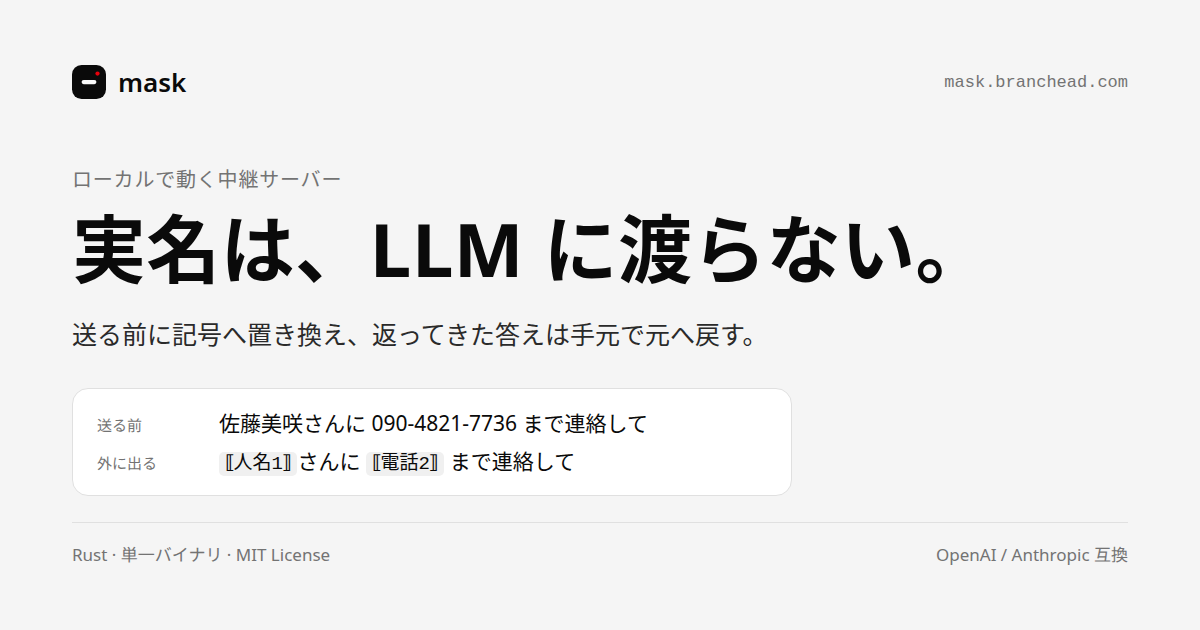
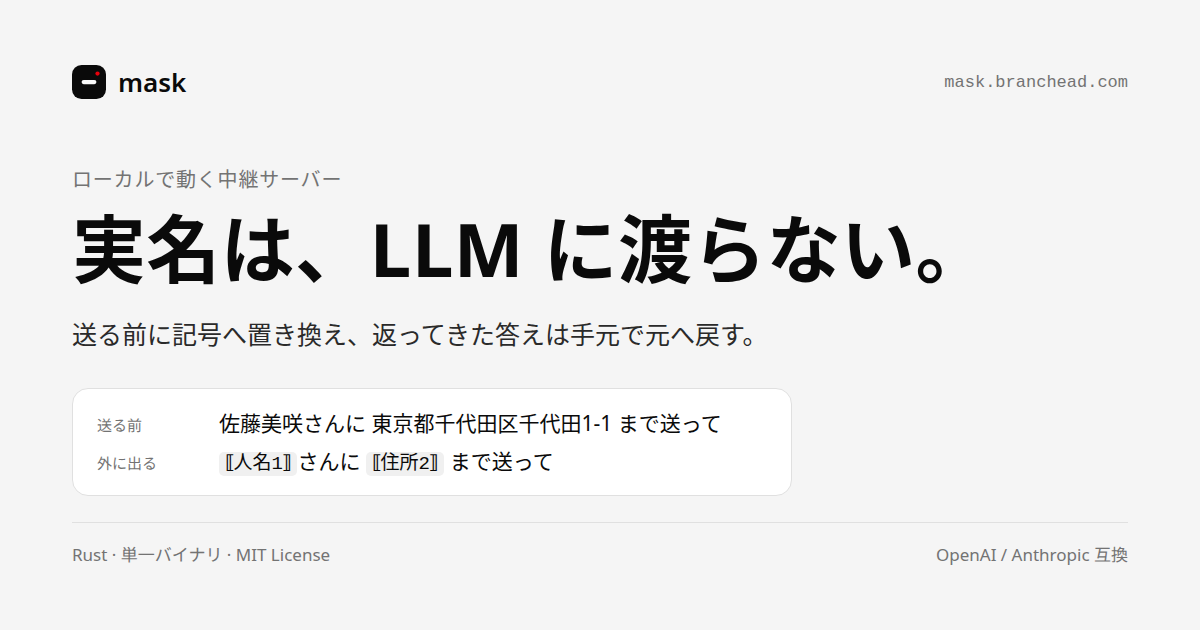
site: put a landmark address in the example, credit branchead.com
The hero flow and the OGP card used a phone-shaped example, which invites
the reader of a privacy tool to ask whose number that is. The example is now
the Imperial Palace's public location (東京都千代田区千代田1-1), labelled as
such in the figure caption, and the token shown on the model side is
⟦住所2⟧. Verified against the real detector: `mask check` reports one 人名
and one 住所 for the new sentence.

The footer ends with a credit line linking branchead.com, styled like a
copyright note. No new network endpoint: the CSP is unchanged and the page
still issues no external request of its own.

Generated by Mistral Vibe.

Changed region(s): [[0.3083, 0.6333, 0.6167, 0.754], [0.3083, 0.7238, 0.37, 0.754]]

diff --git a/site/index.html b/site/index.html
@@ -359,6 +359,16 @@
   .foot-links a { text-decoration: none; }
   .foot-links a:hover { color: var(--ink); }
 
+  .foot-note { margin-top: 2px; }
+
+  .foot-credit { margin-top: 14px; font-size: 13px; }
+  .foot-credit a {
+    text-decoration: none;
+    border-bottom: 1px solid var(--line);
+    padding-bottom: 1px;
+  }
+  .foot-credit a:hover { color: var(--ink); border-color: var(--ink); }
+
   @media (max-width: 640px) {
     .wrap { padding: 0 16px; }
     pre { font-size: 11px; padding: 10px 12px; }
@@ -405,15 +415,15 @@
       <p class="lede-tail">やることは、それだけです。</p>
 
       <figure class="flow">
-        <figcaption>1回のやり取りで起きること</figcaption>
+        <figcaption>1回のやり取りで起きること（例の住所は皇居の所在地）</figcaption>
         <div class="row">
           <span class="who">あなた</span>
-          <span class="what">佐藤美咲さんに 090-4821-7736 まで連絡して</span>
+          <span class="what">佐藤美咲さんに 東京都千代田区千代田1-1 まで送って</span>
         </div>
         <div class="arrow"><span>↓ mask が置き換えて送る</span></div>
         <div class="row">
           <span class="who">LLM</span>
-          <span class="what"><span class="tok">⟦人名1⟧</span>さんに <span class="tok">⟦電話2⟧</span> まで連絡して</span>
+          <span class="what"><span class="tok">⟦人名1⟧</span>さんに <span class="tok">⟦住所2⟧</span> まで送って</span>
         </div>
         <div class="arrow"><span>↓ 返事も記号のまま</span></div>
         <div class="row">
@@ -513,7 +523,8 @@ export ANTHROPIC_API_KEY=&lt;gateway.token&gt;</code></pre>
       <a href="https://github.com/yf-1229/mask/blob/main/SECURITY.md" rel="noopener">Security</a>
       <a href="https://github.com/yf-1229/mask/blob/main/LICENSE" rel="noopener">MIT License</a>
     </nav>
-    <p>© 2026 Yuta Fujiwara · このページは外部リクエストを出しません。</p>
+    <p class="foot-note">このページは外部リクエストを出しません。</p>
+    <p class="foot-credit">© 2026 Yuta Fujiwara · <a href="https://branchead.com" rel="noopener">branchead.com ↗</a></p>
   </footer>
 
 </div>

diff --git a/docs/og-card.html b/docs/og-card.html
@@ -69,8 +69,8 @@
   <p class="sub">送る前に記号へ置き換え、返ってきた答えは手元で元へ戻す。</p>
 
   <div class="card">
-    <div class="row"><span class="k">送る前</span><span class="v">佐藤美咲さんに 090-4821-7736 まで連絡して</span></div>
-    <div class="row"><span class="k">外に出る</span><span class="v"><span class="tok">⟦人名1⟧</span>さんに <span class="tok">⟦電話2⟧</span> まで連絡して</span></div>
+    <div class="row"><span class="k">送る前</span><span class="v">佐藤美咲さんに 東京都千代田区千代田1-1 まで送って</span></div>
+    <div class="row"><span class="k">外に出る</span><span class="v"><span class="tok">⟦人名1⟧</span>さんに <span class="tok">⟦住所2⟧</span> まで送って</span></div>
   </div>
 
   <div class="foot">

diff --git a/docs/superpowers/plans/2026-11-21-site-content-restructure.md b/docs/superpowers/plans/2026-11-21-site-content-restructure.md
@@ -119,8 +119,8 @@
 
 - [ ] **Step 2: 4 段のコード例を grid-2 の card で並べる**
 
-  ① 入力（実名入り chat）: `mask chat "佐藤美咲さんに 090-4821-7736 まで連絡して"` と、送られる JSON の `content` が `⟦人名7⟧さんに ⟦電話3⟧ まで…` になっている対比。
-  ② マスク層: `mask check` の出力（⟦人名7⟧ / ⟦電話3⟧）と、`X-Mask-Masked: 2` ヘッダ。
+  ① 入力（実名入り chat）: `mask chat "佐藤美咲さんに 東京都千代田区千代田1-1 まで送って"` と、送られる JSON の `content` が `⟦人名7⟧さんに⟦住所3⟧ まで…` になっている対比。
+  ② マスク層: `mask check` の出力（⟦人名7⟧ / ⟦住所3⟧）と、`X-Mask-Masked: 2` ヘッダ。
   ③ LLM 応答: 疑似名を含んだ応答文字列と `X-Mask-In: v1/messages` / `X-Mask-Restored: 2` / `X-Mask-Nonce: …` ヘッダ。
   ④ 手元で復元: ターミナル出力 `佐藤美咲さん宛にご案内を送りました。[mask] masked 2 / restored 2 / unresolved 0`。
 

diff --git a/CHANGELOG.md b/CHANGELOG.md
@@ -121,6 +121,11 @@ Windows, macOS and Linux.
   away in `mask status` (the `X-Mask-*` headers stay as they were)
 - The OGP card is regenerated from `docs/og-card.html`; the previous one still
   advertised "Python 3.12+" and `branchead.com/mask`
+- The example in the hero flow and on the OGP card now uses an address instead
+  of a phone number. A phone-shaped example invites the reader to ask whose
+  number it is; the address is the Imperial Palace's public location
+  (`東京都千代田区千代田1-1`), and the figure caption says so
+- The footer ends with a `branchead.com` credit line
 
 ### Tests
 
